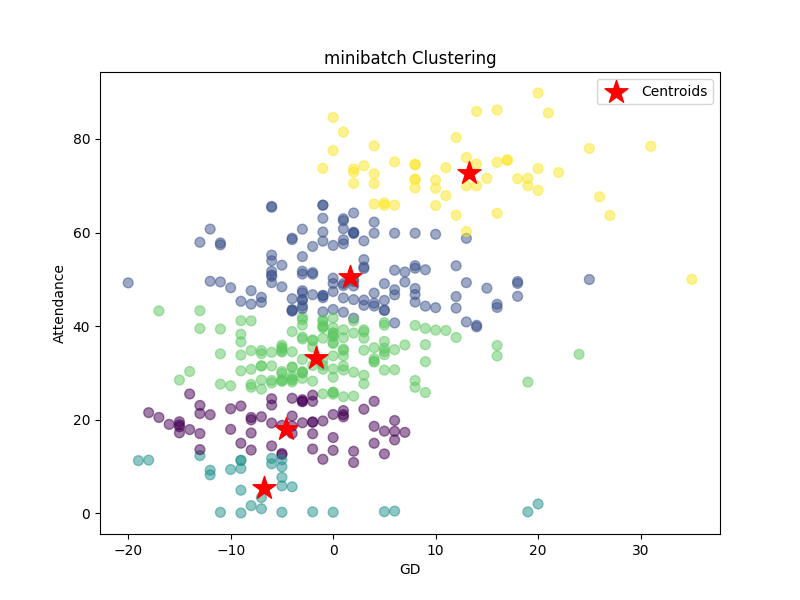
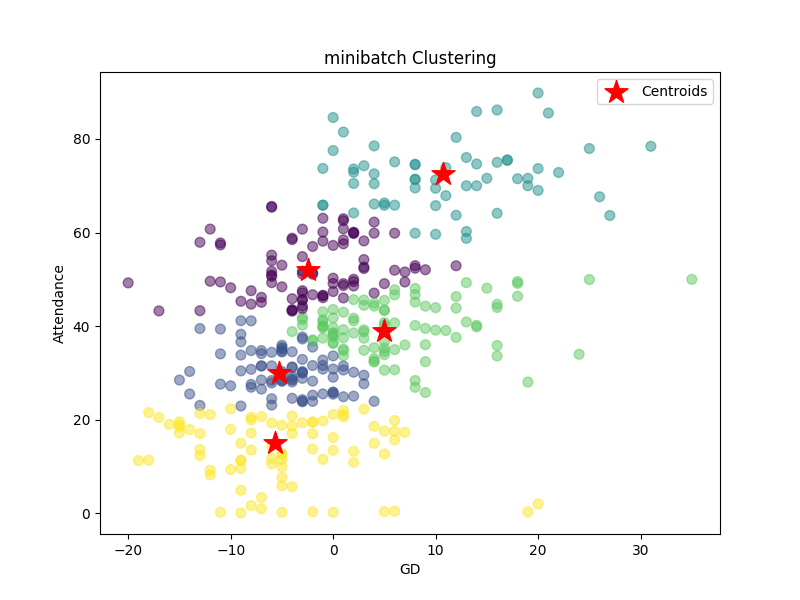
Probamos que los clusters funcionan correctamente

diff --git a/Clusters/lanzador_cluster.py b/Clusters/lanzador_cluster.py
@@ -1,4 +1,8 @@
 class Lanzador_Cluster():
+
+    def __init__(self):
+        self.column_combinations = [['GF', 'Pts'], ['GF', 'GD'], ['GF', 'Attendance'], ['GD', 'Pts'], ['GD', 'Attendance']]
+    
     def lanzar_kmeans(self):
         from Clusters.CentroidClustering.CentroidCluster import CentroidCluster
         print('\n ---------Kmeans---------')

diff --git a/lanzador.py b/lanzador.py
@@ -7,6 +7,8 @@ class Lanzador:
         df_prob = winrate.calculate_prob(combined_df, './UEFA_Winrate/csv/winrate.csv')
         winrate.plot_prob('./UEFA_Winrate/img/winrate.png', df_prob)
 
+    
+
     def lanzar_img_classifier(self):
         from IMG_Classifier.img_classifier import Img_Classifier
         print('Clasificando imagenes...')
